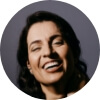
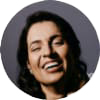
n回目のコミット

diff --git a/index.html b/index.html
@@ -92,8 +92,8 @@
           <div class="slick_item">
             <div class="main_review_container_box_box_box_img">
               <picture>
-                <source media="(min-width:768px)" srcset="/assets/image/review_0101.png">
-                <img src="/assets/image/review_0101.png" alt="">
+                <source media="(min-width:768px)" src="/assets/image/review_01.jpg">
+                <img src="/assets/image/review_01.jpg" alt="">
               </picture>
             </div>
             <p class="main_review_container_box_box_box_p">Aさん</p>
@@ -106,8 +106,8 @@
           <div class="slick_item">
             <div class="main_review_container_box_box_box_img">
               <picture>
-                <source media="(min-width:768px)" srcset="/assets/image/review_0101.png">
-                <img src="/assets/image/review_0101.png" alt="">
+                <source media="(min-width:768px)" src="assets/image/review_02.jpg">
+                <img src="/assets/image/review_02.jpg" alt="">
               </picture>
             </div>
             <p class="main_review_container_box_box_box_p">Bさん</p>
@@ -120,11 +120,35 @@
           <div class="slick_item">
             <div class="main_review_container_box_box_box_img">
               <picture>
-                <source media="(min-width:768px)" srcset="/assets/image/review_0101.png">
-                <img src="/assets/image/review_0101.png" alt="">
+                <source media="(min-width:768px)" src="/assets/image/review_03.jpg">
+                <img src="/assets/image/review_03.jpg" alt="">
               </picture>
             </div>
             <p class="main_review_container_box_box_box_p">Cさん</p>
+            <div class="main_review_container_box_box_box_text">
+              ここにテキストが入ります。ここにテキストが入ります。ここにテキストが入ります。ここにテキストが入ります。ここにテキストが入ります。ここにテキストが入ります。ここにテキストが入ります。
+            </div>
+          </div>
+          <div class="slick_item">
+            <div class="main_review_container_box_box_box_img">
+              <picture>
+                <source media="(min-width:768px)" src="/assets/image/review_01.jpg">
+                <img src="/assets/image/review_01.jpg" alt="">
+              </picture>
+            </div>
+            <p class="main_review_container_box_box_box_p">Aさん</p>
+            <div class="main_review_container_box_box_box_text">
+              ここにテキストが入ります。ここにテキストが入ります。ここにテキストが入ります。ここにテキストが入ります。ここにテキストが入ります。ここにテキストが入ります。ここにテキストが入ります。
+            </div>
+          </div>
+          <div class="slick_item">
+            <div class="main_review_container_box_box_box_img">
+              <picture>
+                <source media="(min-width:768px)" src="/assets/image/review_02.jpg">
+                <img src="/assets/image/review_02.jpg" alt="">
+              </picture>
+            </div>
+            <p class="main_review_container_box_box_box_p">Bさん</p>
             <div class="main_review_container_box_box_box_text">
               ここにテキストが入ります。ここにテキストが入ります。ここにテキストが入ります。ここにテキストが入ります。ここにテキストが入ります。ここにテキストが入ります。ここにテキストが入ります。
             </div>

diff --git a/assets/script/main.js b/assets/script/main.js
@@ -15,18 +15,54 @@ $(document).ready(function () {
       
   //   });
   // });
-    $(document).ready(function(){
-    $('.main_slick').slick({
-      arrows: true,       // ← → 表示
-      dots: true,         // ●●● 表示
-      infinite: true,
-      slidesToShow: 1,
-      slidesToScroll: 1
-    });
-  });
+// $(document).ready(function(){
+//   $('.main_slick').slick({
+//     arrows: true, // ← → 表示
+//     dots: true,   // ●●● 表示
+//     infinite: true,
+//     slidesToShow: 3, // デフォルトは3枚表示（PCなど大きい画面）
+//     slidesToScroll: 1,
+//     prevArrow: '<button type="button" class="slick-prev">←</button>',
+//     nextArrow: '<button type="button" class="slick-next">→</button>',
+//     responsive: [
+//       {
+//         breakpoint: 768, // 768px未満になったらこの設定に切り替わる
+//         settings: {
+//           slidesToShow: 1, // スマホでは1枚ずつ表示
+//           slidesToScroll: 1
+//         }
+//       }
+//     ]
+//   });
+// });
+$(document).ready(function() {
   $('.main_slick').slick({
-  arrows: true,
-  dots: true,
-  prevArrow: '<button type="button" class="slick-prev">←</button>',
-  nextArrow: '<button type="button" class="slick-next">→</button>'
+    arrows: true, // ← → 表示
+    dots: true,   // ●●● 表示
+    infinite: true,
+    slidesToShow: 1, // デフォルトでは1枚表示
+    slidesToScroll: 1,
+    prevArrow: '<button type="button" class="slick-prev">←</button>',
+    nextArrow: '<button type="button" class="slick-next">→</button>',
+    responsive: [
+      {
+        breakpoint: 768,
+        settings: {
+          slidesToShow: 1,  // 768px以下でも1枚表示
+          slidesToScroll: 1,
+          infinite: true,
+          dots: true
+        }
+      },
+      {
+        breakpoint: 1920,
+        settings: {
+          slidesToShow: 3,  // 768px以上〜1920px未満で3枚表示
+          slidesToScroll: 3,
+          infinite: true,
+          dots: true
+        }
+      }
+    ]
+  });
 });

diff --git a/assets/style/style.css b/assets/style/style.css
@@ -247,7 +247,8 @@ li {
   }
 }
 .main_review{
-  padding: 2rem 1rem 2rem 1rem;
+  padding: 2rem .3rem 2rem .3rem;
+  overflow-x: hidden;
 }
 .main_review_container{
   width: 100%;
@@ -265,19 +266,47 @@ line-height: 1.1;
   text-align: center;
 }
 .main_review_container_box{
-  padding: 2rem .3rem 2rem .3rem;
+  padding: 1rem .3rem 2rem .3rem;
 }
 .main_review_container_box_box{
-  width: 28rem;
+  width: 100%;
   height: 34.4rem;
-  /* background-color: #DBF7F9; */
   margin: 0 auto;
 }
 .main_slick{
-  padding: 3rem 2rem 2rem 2rem;
-  width: 24.9rem;
+  padding: 3rem 1rem 0rem 1rem;
+  /* width: 100% */
+  width: 28rem;
+  max-width: 120rem;
   margin: 0 auto;
+ 
+}
+@media (min-width: 768px) {
+  .main_slick {
+    width: 90%;
+    max-width: 90rem;
+    margin: 0 auto;
+  }
+}
+.main_slick .slick-slide {
+  margin: 0 10px;
+  box-sizing: border-box;
+}
+.main_slick .slick-list {
+  margin: 0 -10px;
+}
+.slick_item {
+  width: 100%;
+  height: 34.4rem;
   background-color: #DBF7F9;
+  padding: 2rem;
+  box-sizing: border-box;
+}
+@media (min-width: 768px) {
+  .slick_item {
+    width: 30rem;
+    height: 34.4rem;
+  }
 }
 .slick-next, 
 .slick-arrow{
@@ -300,11 +329,24 @@ line-height: 1.1;
   padding: .8rem 0 0 0;
 }
 .main_review_container_box_box_box_text{
-  /* width: 25rem; */
-  height: 16rem;
   font-size: 1.4rem;
   padding: 2rem 0 0 0;
 
+}
+.slick-dots {
+    position: absolute;
+    bottom: -25px;
+    display: block;
+    width: 90%;
+    padding: 0;
+    margin: 0;
+    list-style: none;
+    text-align: center;
+}
+@media (min-width: 768px) {
+    .slick-dots {
+       width: 100%;
+    }
 }
 .main_qna{
   background: linear-gradient(to right, 
